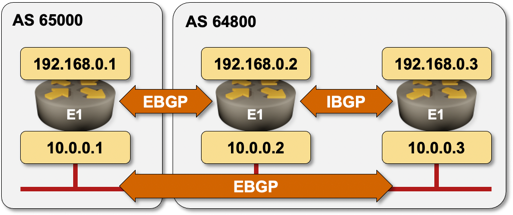
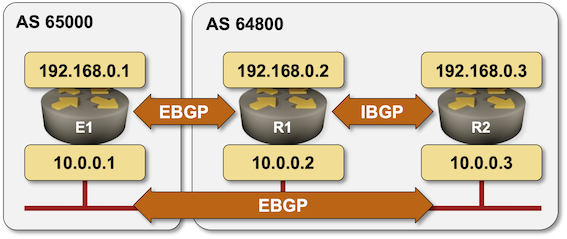
Fixing a BGP lab diagram

diff --git a/content/posts/2009/03/as-path-prepending-technical-details.md b/content/posts/2009/03/as-path-prepending-technical-details.md
@@ -28,7 +28,7 @@ Only *a few* copies of the *local* AS-number should be prepended to the AS-p
 
 Throughout the article, the following test network will be used to generate router printouts. The initial router configurations are summarized in the *Initial router configuration* section. The routers were running Cisco IOS release 15.6(1)T.
 
-{{<figure src="AS-Path-Lab.png" caption="Diagram of the lab network">}}
+{{<figure src="/2009/03/AS-Path-Lab.png" caption="Diagram of the lab network">}}
 
 ### Cisco IOS Configuration
 
